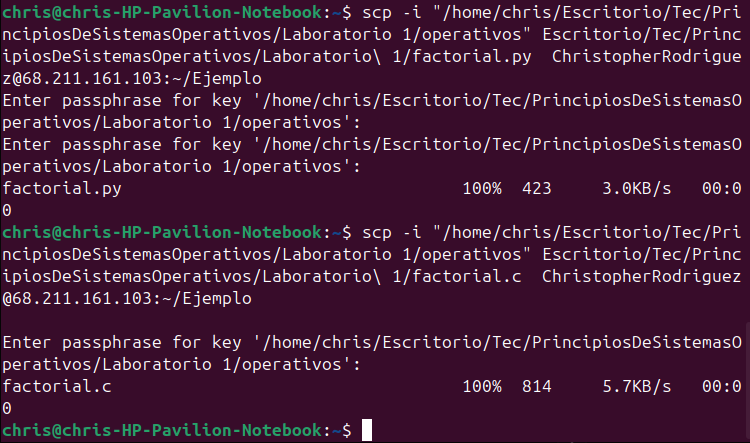
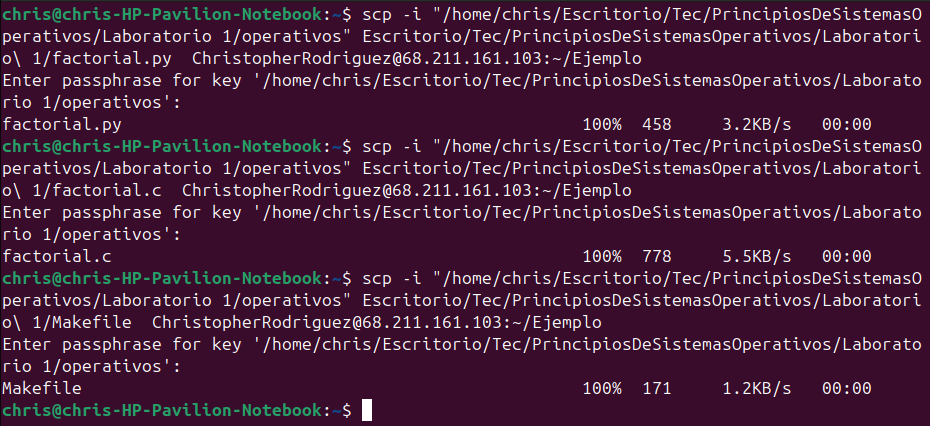
Imagenes de tiempos

diff --git a/factorial.c b/factorial.c
@@ -34,7 +34,7 @@ int main(){
         tiempo = (double)(fin - inicio) / CLOCKS_PER_SEC;
 
 
-        printf("El factorial de %d es: %lld\n", num, resultado);
+        //printf("El factorial de %d es: %lld\n", num, resultado);
         printf("Tiempo: %f\n", tiempo);
     }
     return 0;
